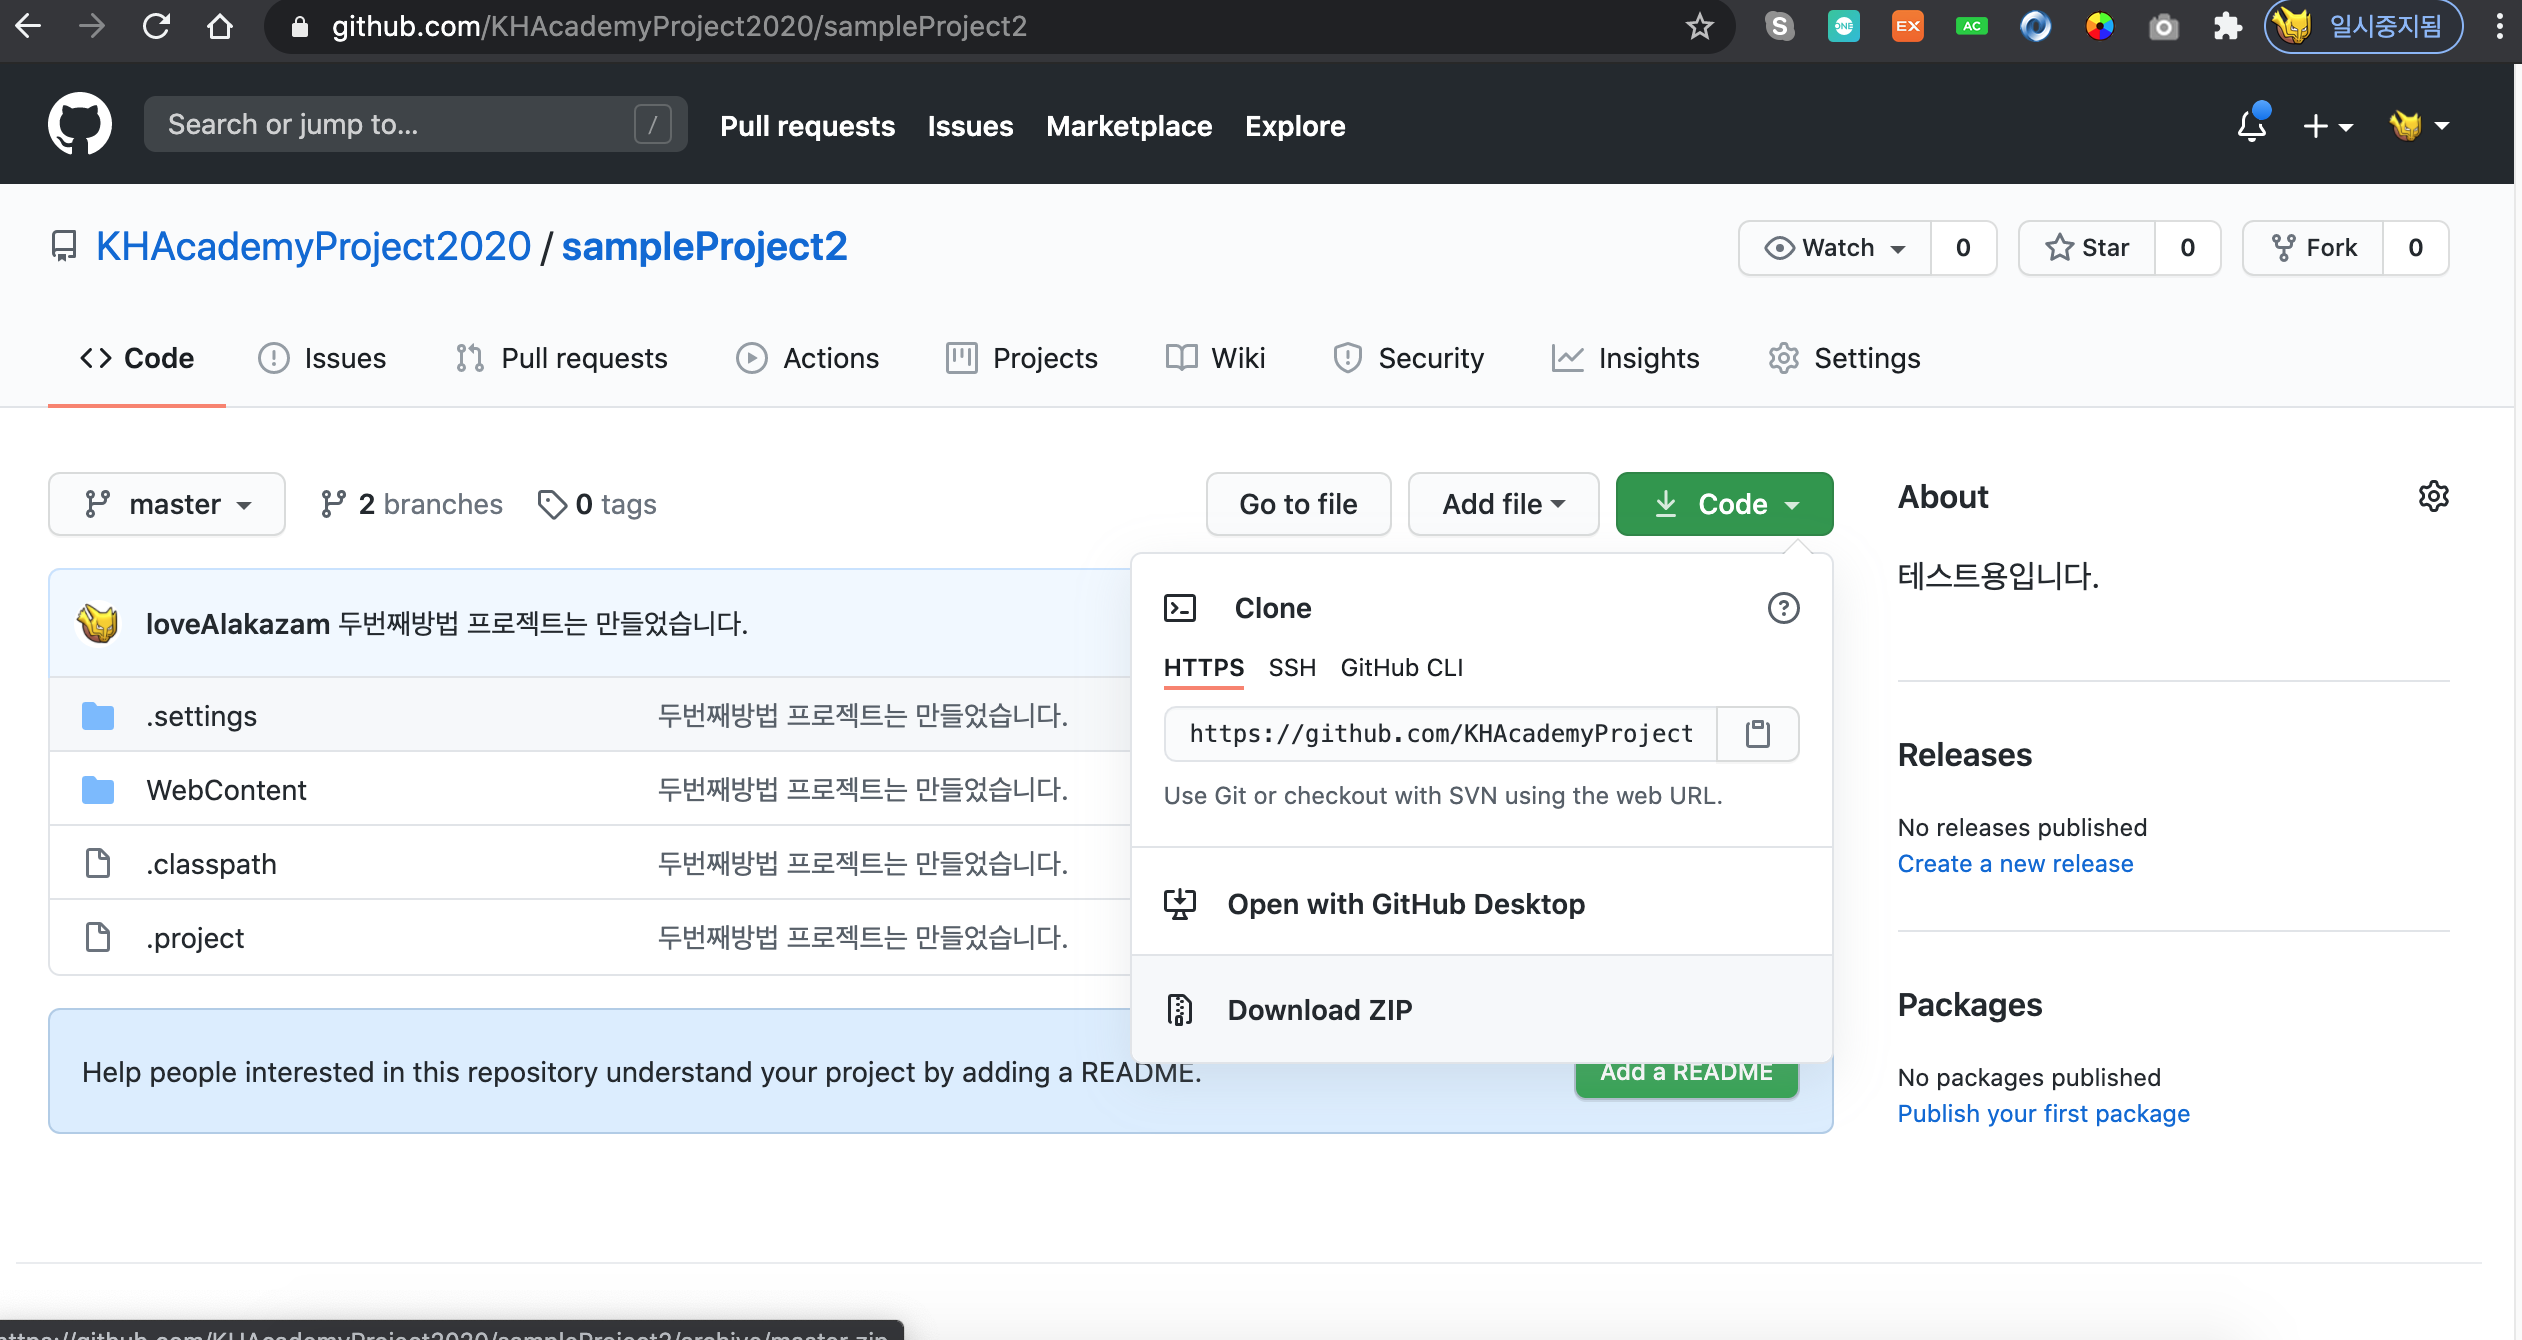
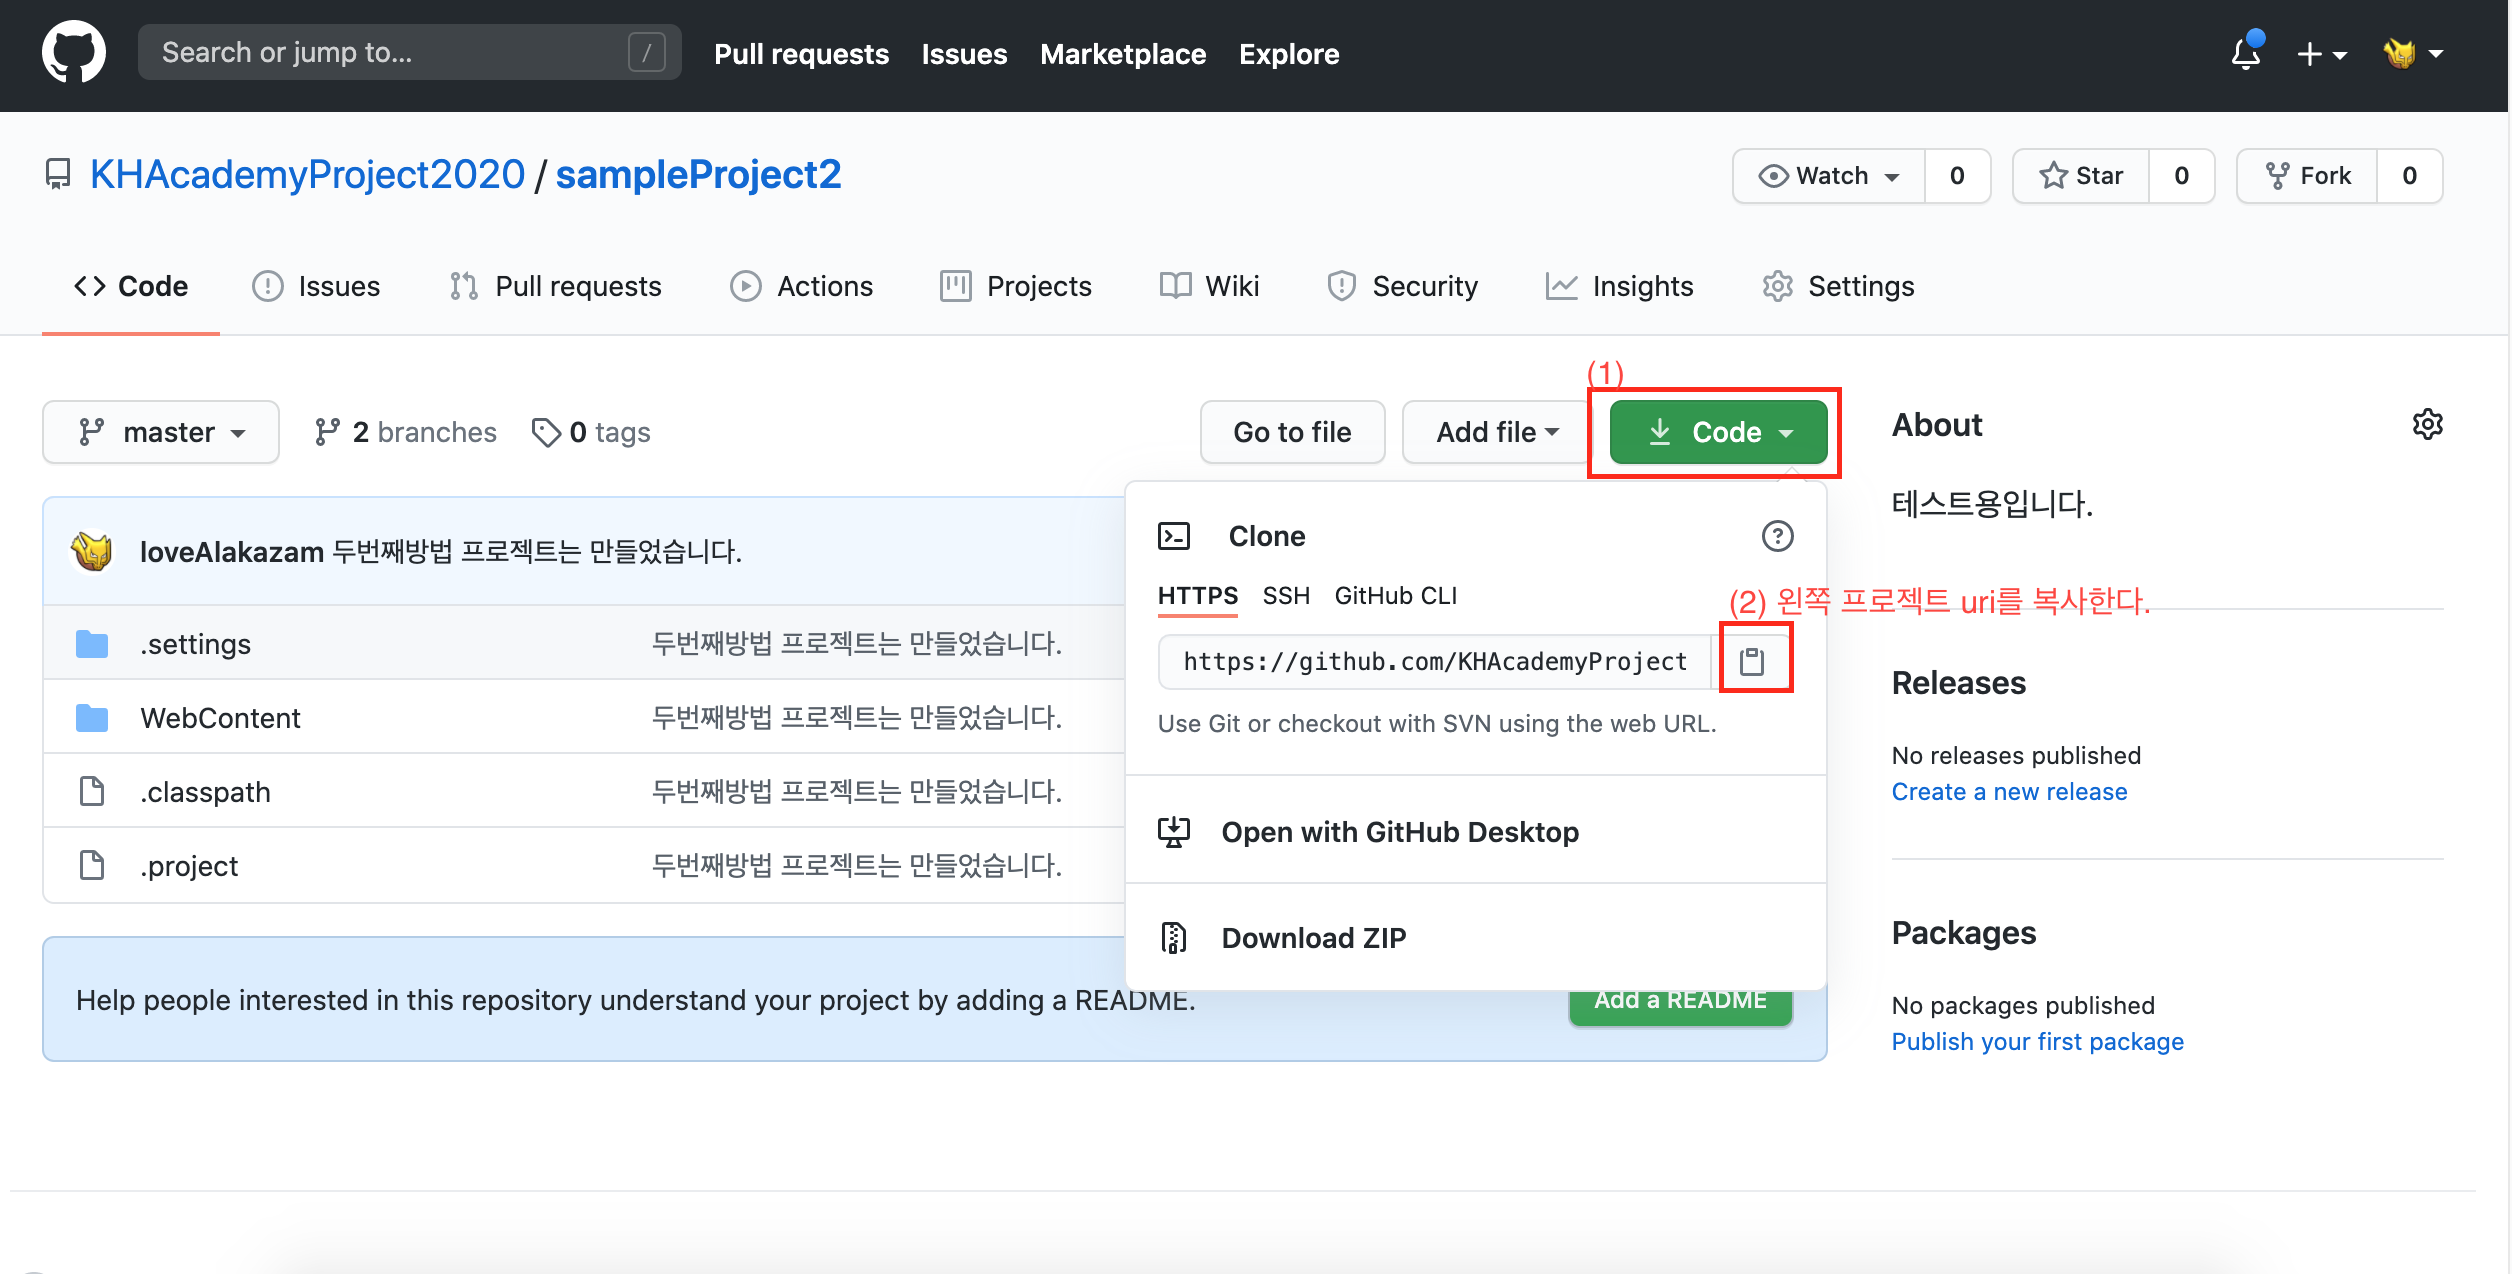
1012

diff --git a/2020/1008-1009_이클립스프로젝트연결/readme.md b/2020/1008-1009_이클립스프로젝트연결/readme.md
@@ -9,11 +9,11 @@
 - 이 방법으로 시도하다가 ~내 필기자료 다 날라갔다...ㅠ.ㅠ~
 
 - #### 참고자료
-  - [eclipse프로젝트를 github에 연동해서 형상관리하기-준스파파](https://junspapa-itdev.tistory.com/46)
 
   - [Java프로젝트에 Github에 쉽게 연동하기(with Eclipse)- 프로삽질러 개발로그](https://d-e-v.tistory.com/3)
 
-  - [Github에 있는 자바프로젝트를 이클립스에 import시키기](https://zgundam.tistory.com/161)
+
+  - [Github에 있는 자바프로젝트를 이클립스에 import시키기](https://tychejin.tistory.com/33)
     - 기쁨, 규호, 수진L, 수진K 가 봐야될 부분입니다.
 
 
@@ -21,108 +21,88 @@
 
 > ## 1. 이클립스 프로젝트를 Github와 연결하기 - 프로삽질러 개발로그 참고
 
-> ## 2. Github에 있는 자바프로젝트를 이클립스에 받는 방법 - zgundam 티스토리블로그 참고
+> ## 2. Github에 있는 프로젝트를 이클립스로 import 시키는 방법
 
-### 1. 새 폴더를 만듭니다.
+### 1. 자주 사용하는 이클립스 워크스페이스를 오픈합니다.
 
-- 이 새 폴더(final_project_kh)는 앞으로 여러분이 사용하게 될 eclipse workspace 입니다.
-- 제가 만든 새폴더의 디렉토리 경로는 `/Users/ek/final_project_kh`이고,
-- eclipse workspace 경로입니다.
+### 2. git perspective 불러오기
+
+- Windows > Perspective > Open Perspective > Others > Git
 
 <br>
 
+### 3. Clone git repository 클릭
 
-- 깃허브 래포지토리를 이클립스프로젝트를 다운로드하는 방법은 3가지가 있습니다.
-  - (방법1) github desktop을 이용
-  - (방법2) git bash를 이용
+![](./방법1/1.png)
 
+<br>
 
-<br><br>
+### 4. 연결할 깃헙 정보 입력과 현재 내 깃헙 계정을 입력한다.
 
-- 방법은 각자가 편하다고 생각하는 방법으로 하면됩니다. 저는 (방법1)로 진행하겠습니다.
-
-### 2. (방법1) 깃허브 desktop을 이용하는 방법
-
-- (1) 초록색버튼 Code 클릭
-- (2) Open with Github Desktop
+- #### 4-1 연결 repository의 uri를 복사한다.
 
 ![](./방법1/2.png)
 
-<br><br>
+<br>
 
-### 3. local path를 이클립스 workspace 경로로 설정하기
+- #### 4-2 연결 repository 정보 입력
 
 ![](./방법1/3.png)
 
 <br>
 
+- #### 4-3 master branch만 선택!
+
 ![](./방법1/4.png)
 
 <br>
 
-- clone repository를 성공시킨 모습은 아래와 같습니다!
+- #### 4-4 local path 정하기
+
+- 제 local path는 `내문서/Github` 로 했습니다.
+
+- 각자 원하는 위치에 저장하시면 됩니다!
 
 ![](./방법1/5.png)
 
 <br><br>
 
-
-### 4. 이클립스를 켭니다.
-
-- local path를 찾습니다. 저의 local path는 `/Users/ek/final_project_kh` 입니다.
+### 5. 프로젝트 import 하기
 
 ![](./방법1/6.png)
 
 <br>
 
-- 언어 encoding/spelling 설정이 잘되어 있는지 확인해주세요!
-  - ### [windows10 - encoding/spelling 세팅](# 4-3 eclipse 인코딩 설정하기)
-  - mac os는 기본언어가 utf-8이라서 윈도우와 다르게 따로 설정할 필요없습니다.
-
-<br><br>
-
-### 5. github에 있는 자바 프로젝트 import하기
-
-- ### (1) Project Explorer에서 `import projects...` 클릭!
-- ### (2) `Git` > `Projects from Git` 클릭 후 Next
-- ### (3) `Existing local repository` 클릭 후 Next
-- ### (4) `Add` 클릭 > Browse클릭
-  - Directory는 local path 디렉토리경로를 올립니다. (저의경우는, `/Users/ek/final_project_kh` 네요.)
-  - Search results에 나오는 .git을 체크!
-  - 아래 사진처럼 나와야됩니다!
-- ### (5) Finish버튼 클릭
-
-<br>
+- 아래 프로젝트가 잘 뜨면 finish버튼누른다.
 
 ![](./방법1/7.png)
 
 <br>
 
-- ### (6) 아래 사진처럼 나왔다면, next버튼 클릭
+- perspective를 java ee로 바꾸면, 프로젝트가 임포트됐음을 알 수 있습니다!
 
-![](./방법1/8.png)
+- 그런데 문제점은! 프로젝트에 x표시가 뜬다! 그것도 WebContent에서!
 
-<br>
+```
+[에러메시지 1]
+The superclass "javax.servlet.http.HttpServlet" was not found on the Java Build Path
+```
 
-- ### (7) `import existing Eclipse project` 선택 후 next 버튼 클릭
+> ## 해결방법 참고2, 참고3 을 참고했습니다.
 
-![](./방법1/9.png)
-
-<br>
-
-- ### (8) 사진처럼 프로젝트가 존재하면, Finish버튼 클릭!
-
-![](./방법1/10.png)
-
-### 6.
+- 해결1: 서버런타임을 apache tomcat 9.0으로 설정했습니다.
+- 해결2: jre library를 설정했습니다.
 
 
+- ### 서버를 만들지 않고, 내가 가지고 있는 기존 서버로 설정하고 싶다면 아래 블로그를 참고하면됩니다.
 
+- [해결방법 참고1](https://simuing.tistory.com/168)
 
+- [해결방법 참고2](https://hongeui.tistory.com/13)
 
+- [해경방법 참고3](https://jamesdreaming.tistory.com/164)
 
-
-
+- [깃허브 push/pull/merge방법](https://developer0513.tistory.com/43)
 
 
 <br><br>
